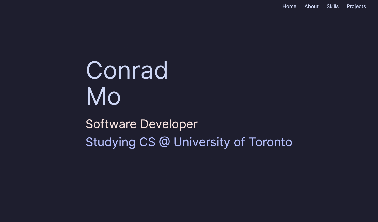
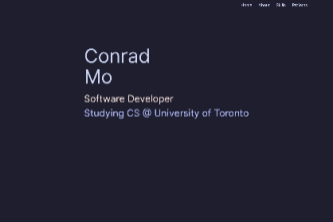
Done mobile layout I think

Changed region(s): [[0.2102, 0.2162, 0.7808, 0.6757], [0.7207, 0.0, 0.961, 0.0541]]

diff --git a/app/page.tsx b/app/page.tsx
@@ -40,7 +40,7 @@ export default function Home() {
           </div>
         </div>
         <div className="flex items-center">
-          <div className="flex items-center shrink basis-auto rounded-full overflow-hidden w-[400px] h-[400px]">
+          <div className="flex items-center shrink basis-auto rounded-full overflow-hidden w-[200px] lg:w-[400px] h-[200px] lg:h-[400px]">
             <Image
               src="/pfp.jpg"
               alt="Profile picture"
@@ -57,7 +57,7 @@ export default function Home() {
       >
         <div className="flex flex-col items-center lg:items-start gap-4">
           <div className="text-6xl">Skills</div>
-          <div className="flex gap-24 md:gap-32 lg:gap-48 justify-center lg:justify-between flex-wrap">
+          <div className="flex flex-col lg:flex-row gap-8 lg:gap-48 justify-center lg:justify-between lg:flex-wrap">
             <div className="flex flex-col text-3xl gap-2 items-center justify-center lg:items-start">
               <div className="text-xl text-ctp-mauve">Programming</div>
               <div className="text-ctp-subtext0 gap-2 flex flex-col items-center lg:items-start">
@@ -102,7 +102,7 @@ export default function Home() {
           </div>
         </div>
       </div>
-      <div className="flex justify-center items-center py-16 lg:p-0" id="projects">
+      <div className="flex justify-center items-center p-16" id="projects">
         <div className="flex flex-col items-center lg:items-start justify-start gap-8 max-w-5xl">
           <div className="text-6xl ">Projects</div>
           <div className="flex flex-wrap gap-8 w-full justify-center lg:justify-start">
